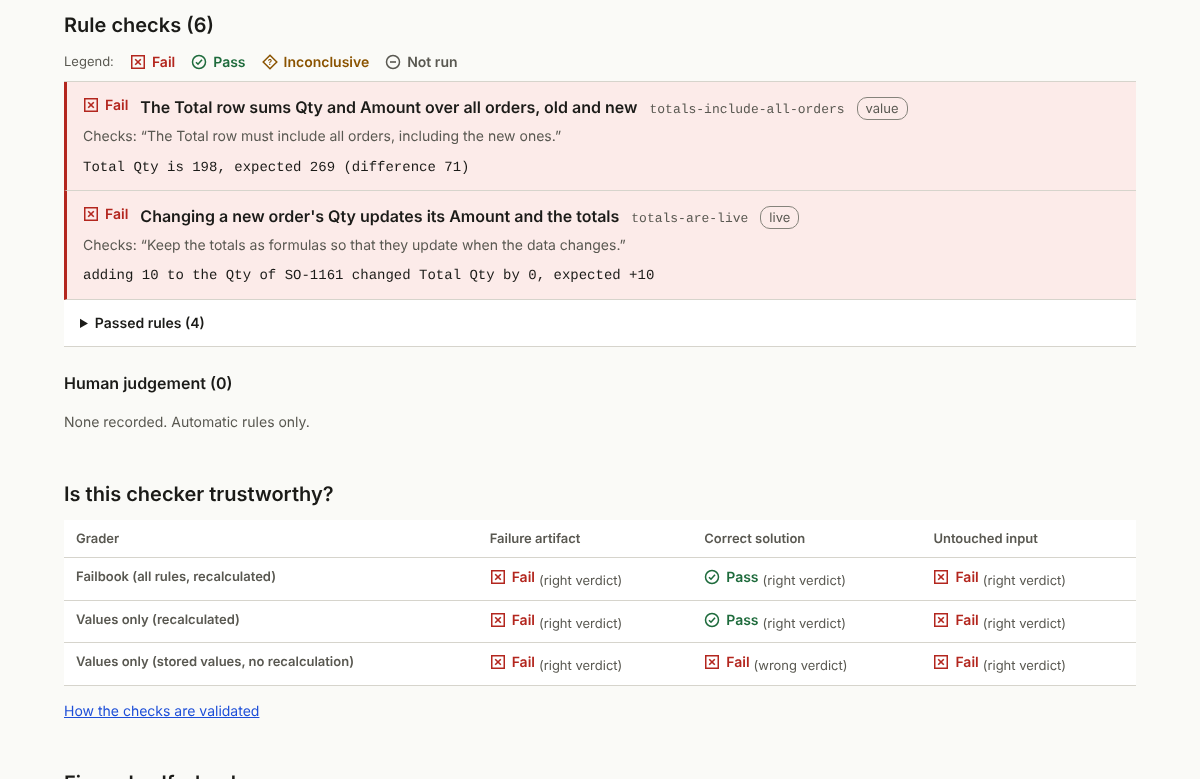
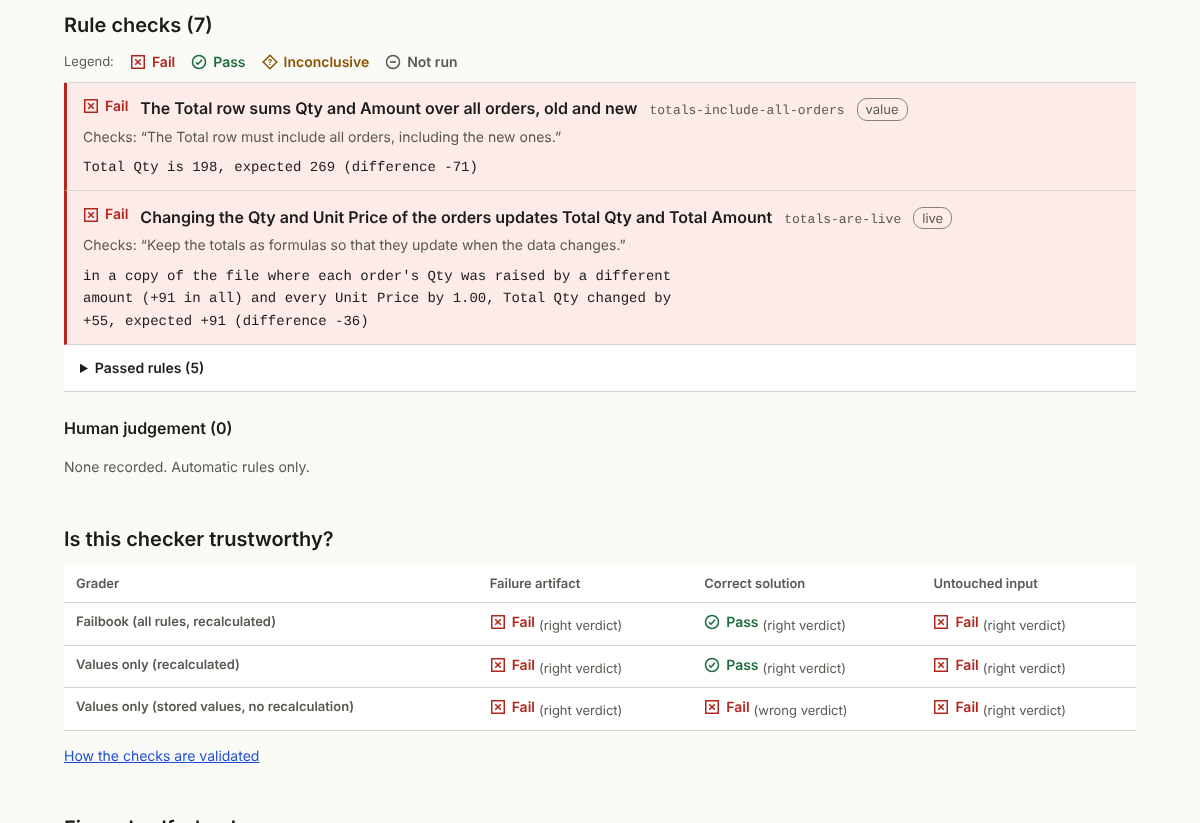
Sync fix self-check numbers and screenshots after the review fixes
- fix-self-check: 13/15 failure artifacts flagged (9 with an error),
  0 errors on 30 correct solutions (was 22); README, zh README,
  PROGRESS, fixes/README and D7 updated. D7 records what the audit
  stopped flagging and what it still treats as an error.
- README screenshots retaken from the rebuilt site (xlsx-001 now
  shows 7 rules and signed differences).

Claude-Session: https://claude.ai/code/session_01F7zbSCJNEiVdodf7tRrssh

diff --git a/docs/evidence/fix-self-check.md b/docs/evidence/fix-self-check.md
@@ -11,7 +11,7 @@ The [spreadsheet-verify-skill](../../fixes/spreadsheet-verify-skill/) fix asks t
 | Output | Total | Flagged (error or warning) | Flagged with an error | Clean |
 |---|---|---|---|---|
 | failure artifacts | 15 | 13 | 9 | 2 |
-| correct solutions | 22 | 1 | 0 | 21 |
+| correct solutions | 30 | 1 | 0 | 29 |
 
 ## Per case
 
@@ -19,17 +19,17 @@ The [spreadsheet-verify-skill](../../fixes/spreadsheet-verify-skill/) fix asks t
 |---|---|---|
 | [xlsx-001](../../cases/xlsx-001-total-misses-new-rows/) New orders inserted above the Total row are left out of the total | **range-omits-adjacent-cells**, **formula-moved-as-text** | reference: clean; alt_subtotal: clean |
 | [xlsx-002](../../cases/xlsx-002-margin-hardcoded/) A calculated column is pasted in as fixed numbers | clean | reference: clean; alt_equivalent_formula: clean |
-| [xlsx-003](../../cases/xlsx-003-rate-reference-drifts/) Filling a formula down shifts the reference to the tax-rate cell | **error-value** | reference: clean; alt_named_rate: clean |
+| [xlsx-003](../../cases/xlsx-003-rate-reference-drifts/) Filling a formula down shifts the reference to the tax-rate cell | **error-value** | reference: clean; alt_named_rate: clean; alt_round_cents: clean |
 | [xlsx-004](../../cases/xlsx-004-sort-scrambles-formulas/) Sorting rows leaves each formula pointing at its old row | **formula-moved-as-text** | reference: clean |
-| [xlsx-005](../../cases/xlsx-005-insert-column-stale-refs/) Inserting a column silently breaks formulas on another sheet | **reference-meaning-changed** | reference: clean |
+| [xlsx-005](../../cases/xlsx-005-insert-column-stale-refs/) Inserting a column silently breaks formulas on another sheet | **reference-meaning-changed** | reference: clean; alt_rebuild_sumproduct: clean; alt_round_cents: clean |
 | [xlsx-006](../../cases/xlsx-006-rename-sheet-breaks-refs/) Renaming a sheet breaks every formula that referred to it | **error-value**, **stale-sheet-reference** | reference: clean |
-| [xlsx-007](../../cases/xlsx-007-imported-text-numbers/) Imported amounts and dates are stored as text, so totals ignore them | **number-stored-as-text** | reference: clean |
-| [xlsx-008](../../cases/xlsx-008-percent-entered-as-whole-numbers/) Percentages typed as whole numbers become 100 times too large | clean | reference: clean |
+| [xlsx-007](../../cases/xlsx-007-imported-text-numbers/) Imported amounts and dates are stored as text, so totals ignore them | **number-stored-as-text** | reference: clean; alt_serial_dates: clean |
+| [xlsx-008](../../cases/xlsx-008-percent-entered-as-whole-numbers/) Percentages typed as whole numbers become 100 times too large | clean | reference: clean; alt_percent_formula: clean |
 | [xlsx-009](../../cases/xlsx-009-lookup-approximate-match/) A lookup without exact match returns another product's data | approximate-lookup (warning) | reference: clean; alt_vlookup_exact: clean |
 | [xlsx-010](../../cases/xlsx-010-grand-total-double-counts/) A grand total sums the subtotals as well, counting everything twice | **double-counting** | reference: clean; alt_sumif_reps: clean |
-| [xlsx-011](../../cases/xlsx-011-chart-range-not-extended/) New months are added, but the chart still stops at October | range-stops-before-data-ends (warning) | reference: clean |
+| [xlsx-011](../../cases/xlsx-011-chart-range-not-extended/) New months are added, but the chart still stops at October | range-stops-before-data-ends (warning) | reference: clean; alt_named_range: clean |
 | [xlsx-012](../../cases/xlsx-012-typo-fix-wipes-workbook/) Fixing a typo with pandas wipes out the rest of the workbook | **sheet-removed**, **formulas-lost**, **validation-lost**, frozen-panes-lost (warning), header-style-lost (warning) | reference: clean |
-| [xlsx-013](../../cases/xlsx-013-dropdown-and-highlight-not-extended/) New rows get no dropdown and no highlighting | range-stops-before-data-ends (warning) | reference: clean; alt_whole_column: clean |
+| [xlsx-013](../../cases/xlsx-013-dropdown-and-highlight-not-extended/) New rows get no dropdown and no highlighting | range-stops-before-data-ends (warning) | reference: clean; alt_begins_with: clean; alt_named_status_list: clean; alt_whole_column: clean |
 | [xlsx-014](../../cases/xlsx-014-delete-rows-shifts-formulas/) Deleting rows leaves formulas pointing at the wrong rows | **error-value**, **double-counting**, **formula-moved-as-text**, **reference-meaning-changed** | reference: clean |
 | [xlsx-015](../../cases/xlsx-015-summary-was-pasted-values/) Data corrected, but the summary was pasted values and never updates | totals-without-formulas (warning) | reference: clean; alt_static_values: totals-without-formulas (warning) |
 
@@ -39,4 +39,4 @@ These failures leave no generic symptom; only the task's requirements reveal the
 
 ## Findings on correct solutions
 
-- xlsx-015 alt_static_values: [warning] totals-without-formulas at Summary: 'Summary' holds 6 numbers and no formulas; if they summarise other sheets they will not update
+- xlsx-015 alt_static_values: [warning] totals-without-formulas at Summary: 'Summary' holds 6 numbers and no formulas; if they summarise other sheets they will not update (also in the original file)

diff --git a/docs/DECISIONS.md b/docs/DECISIONS.md
@@ -135,9 +135,14 @@ project's own repository, package metadata or installed source, as each note say
   task-agnostic audit script (`scripts/audit_xlsx.py`, generated from `src/failbook/audit.py`) that compares
   the edited file with the original.
 - **Validation** ([evidence/fix-self-check.md](evidence/fix-self-check.md)): the script flags 13 of the 15
-  failure artifacts (9 with an error-level finding) and reports no error on any of the 22 correct solutions
-  (one warning on a valid "static values" alternative). It misses xlsx-002 and xlsx-008, which leave no
-  generic symptom.
+  failure artifacts (9 with an error-level finding) and reports no error on any of the 30 correct solutions
+  (one warning on a valid "static values" alternative, a symptom the original file already had). It misses
+  xlsx-002 and xlsx-008, which leave no generic symptom.
+- **Corrected after the review (D9).** The audit raised errors on ordinary correct edits (stacked summary
+  rows below a total, a renamed header or row label, a symptom the original already had, `#NAME?` from a
+  function LibreOffice lacks) and crashed when LibreOffice could not start. Those are now warnings or a
+  stated `recalculation-unavailable` finding; real breakage (a shifted column, deleted rows, a stale sheet
+  name) is still an error. Each case is a test in `tests/test_audit_more.py`.
 - **Limits.** The checks were written with these failures in view, so this is coverage, not generalisation.
   **Whether agents do better with the skill is a hypothesis** until runs with and without it are recorded.
 

diff --git a/README.zh-CN.md b/README.zh-CN.md
@@ -86,7 +86,7 @@ harbor run -p dist/harbor -a claude-code -m <model> -k 3
 
 ## 修复方案
 
-[spreadsheet-verify-skill](fixes/spreadsheet-verify-skill/) 是一个 Agent Skill：一份检查清单，加上 `audit_xlsx.py`——把改动后的工作簿与原件对比、与具体任务无关的审计脚本。它能标记 15 个失败产物中的 13 个，对 22 个正确解没有报出任何错误（[证据](docs/evidence/fix-self-check.md)）。智能体用了这个 Skill 是否真的做得更好，**尚未测量**；可以用 `--fix spreadsheet-verify-skill` 或 SkillEvaluator（`failbook export skillevaluator --fix spreadsheet-verify-skill --out dist/se`）复测。
+[spreadsheet-verify-skill](fixes/spreadsheet-verify-skill/) 是一个 Agent Skill：一份检查清单，加上 `audit_xlsx.py`——把改动后的工作簿与原件对比、与具体任务无关的审计脚本。它能标记 15 个失败产物中的 13 个，对 30 个正确解没有报出任何错误（[证据](docs/evidence/fix-self-check.md)）。智能体用了这个 Skill 是否真的做得更好，**尚未测量**；可以用 `--fix spreadsheet-verify-skill` 或 SkillEvaluator（`failbook export skillevaluator --fix spreadsheet-verify-skill --out dist/se`）复测。
 
 ## 仓库结构
 

diff --git a/docs/PROGRESS.md b/docs/PROGRESS.md
@@ -10,7 +10,7 @@ Last updated 2026-11-03.
 | Checker validation: reference + alternatives pass (also after a LibreOffice re-save), failure fails on the named rules, review-found wrong answers (`fail_*.py`) fail, untouched input fails | `failbook verify` output in CI |
 | Core claim: live, preserve and structure rules catch the failures that value checks miss, without rejecting correct solutions <!-- sync-numbers --> | [evidence/checker-ablation.md](evidence/checker-ablation.md) |
 | Evidence chain for one case, end to end, no AI needed | [evidence/demo-xlsx-001.md](evidence/demo-xlsx-001.md), `scripts/demo-evidence-chain.sh` |
-| Fix with a deterministic self-check: flags 13/15 failures, no error on 22 correct solutions | [evidence/fix-self-check.md](evidence/fix-self-check.md) |
+| Fix with a deterministic self-check: flags 13/15 failures, no error on 30 correct solutions | [evidence/fix-self-check.md](evidence/fix-self-check.md) |
 | Harbor export loads in Harbor 0.24.0; SkillEvaluator 0.7.0 `tier3 validate --harbor-contract` passes | [DECISIONS.md](DECISIONS.md) D4 |
 | Static site: catalog + evidence pages, en/zh, reflow at 320 px checked | `failbook site`, GitHub Pages workflow |
 

diff --git a/fixes/README.md b/fixes/README.md
@@ -6,7 +6,7 @@ folder with `SKILL.md`) or a prompt addition (`kind: prompt`, a `prompt.md`). Ea
 
 | Fix | Status | What it is | Evidence so far |
 |---|---|---|---|
-| [spreadsheet-verify-skill](spreadsheet-verify-skill/) | candidate | Checklist of the pitfalls behind the cases plus `scripts/audit_xlsx.py`, a task-agnostic audit of an edited workbook against its original | The audit flags 13/15 failure artifacts and raises no error on 22 correct solutions ([docs/evidence/fix-self-check.md](../docs/evidence/fix-self-check.md)). **No agent runs yet**, so its effect on agents is unknown. |
+| [spreadsheet-verify-skill](spreadsheet-verify-skill/) | candidate | Checklist of the pitfalls behind the cases plus `scripts/audit_xlsx.py`, a task-agnostic audit of an edited workbook against its original | The audit flags 13/15 failure artifacts and raises no error on 30 correct solutions ([docs/evidence/fix-self-check.md](../docs/evidence/fix-self-check.md)). **No agent runs yet**, so its effect on agents is unknown. |
 
 Retest a fix:
 

diff --git a/README.md b/README.md
@@ -105,7 +105,7 @@ not run. Submit every attempt as described in [results/README.md](results/README
 
 [spreadsheet-verify-skill](fixes/spreadsheet-verify-skill/) is an Agent Skill: a checklist plus
 `audit_xlsx.py`, a task-agnostic audit of an edited workbook against its original. The audit flags 13 of the
-15 failure artifacts and raises no error on 22 correct solutions ([evidence](docs/evidence/fix-self-check.md)).
+15 failure artifacts and raises no error on 30 correct solutions ([evidence](docs/evidence/fix-self-check.md)).
 Whether agents do better with the skill is **not yet measured**; retest with `--fix spreadsheet-verify-skill`
 or with SkillEvaluator (`failbook export skillevaluator --fix spreadsheet-verify-skill --out dist/se`).
 
